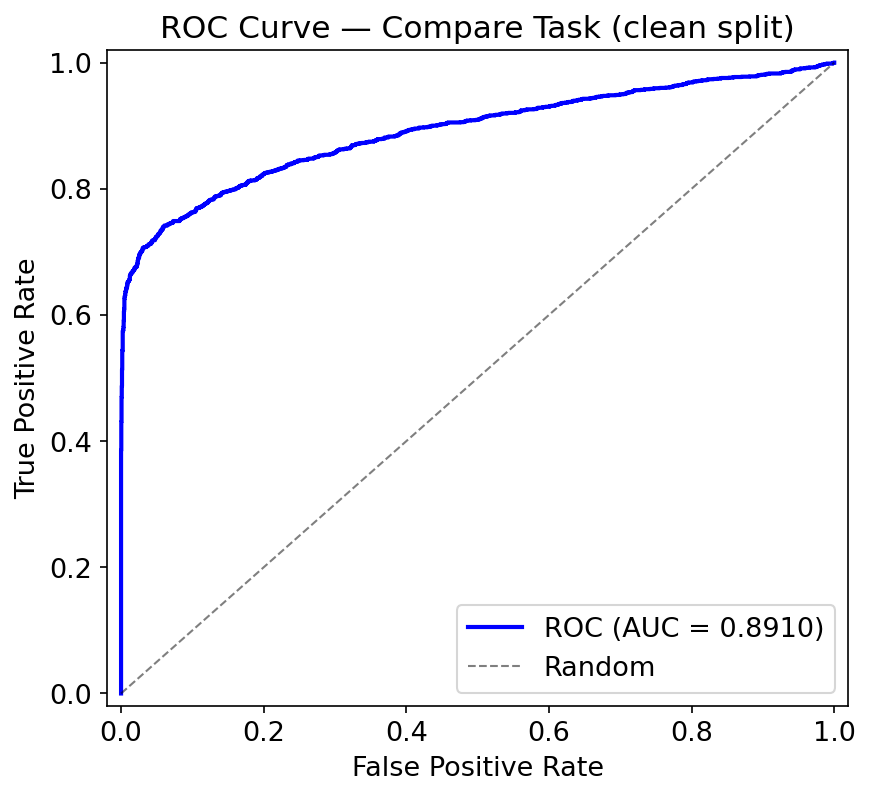
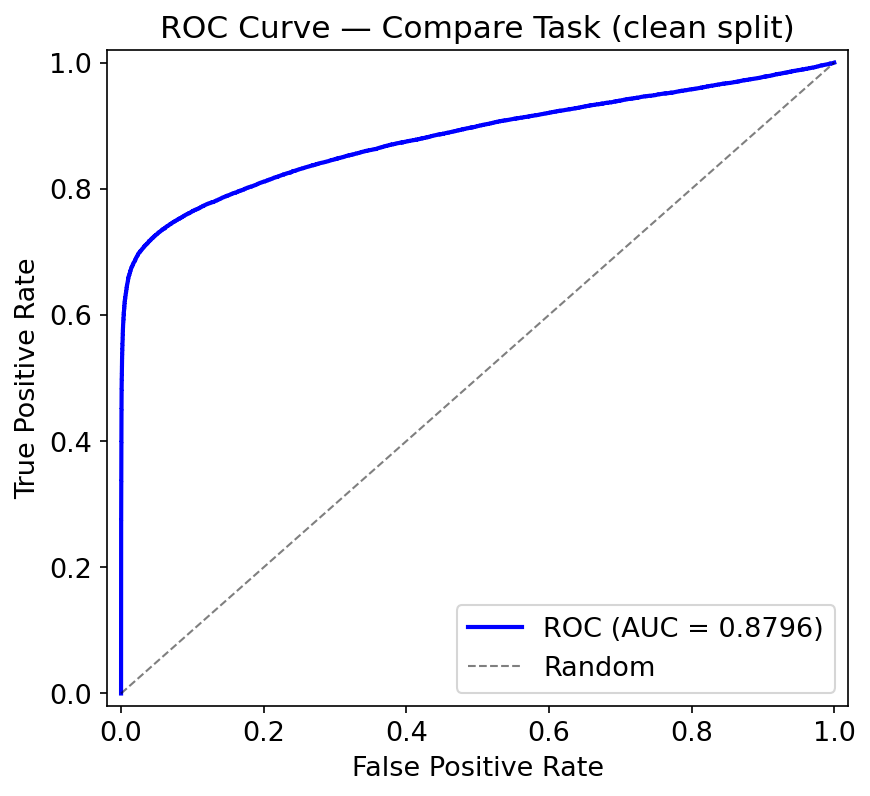
fix: 统一ROC曲线与文档的AUC为88.0%（split best.pt epoch 298）

diff --git a/src/stage4_siamese/train_relation_supcon.py b/src/stage4_siamese/train_relation_supcon.py
@@ -144,26 +144,31 @@ def main() -> int:
     train_transform = default_transform(input_shape=(64, 512), train=True)
     eval_transform = default_transform(input_shape=(64, 512), train=False)
 
-    # Full data: read ALL rows, ignore split column
     train_ds = RelationDataset(
         relation_meta,
         resolve_root_path(args.iris_dir),
-        split=None,
+        split="train",
         transform=train_transform,
         limit=int(args.limit_train) or None,
     )
-
-    # Internal stratified split for validation monitoring
-    all_rows = train_ds.rows
-    tr_rows, val_rows = split_meta_for_training(
-        all_rows, val_ratio=0.1, seed=int(args.seed), group_col="blood_name"
+    val_ds = RelationDataset(
+        relation_meta,
+        resolve_root_path(args.iris_dir),
+        split="val",
+        transform=eval_transform,
+        limit=int(args.limit_val) or None,
     )
-    train_indices = tr_rows.index.tolist()
-    val_indices = val_rows.index.tolist()
-    val_ds = Subset(train_ds, val_indices)
-    logger.info("full=%s train=%s val=%s", len(all_rows), len(train_indices), len(val_indices))
+    eval_gallery_ds = RelationDataset(
+        relation_meta,
+        resolve_root_path(args.iris_dir),
+        split="train",
+        transform=eval_transform,
+        limit=int(args.limit_train) or None,
+    )
 
-    blood_id_sets = blood_id_sets_from_rows(all_rows)
+    logger.info("train=%s val=%s", len(train_ds), len(val_ds))
+
+    blood_id_sets = blood_id_sets_from_rows(eval_gallery_ds.rows, val_ds.rows)
     idf = build_blood_id_idf(blood_id_sets)
 
     sampler = RelationBatchSampler(

diff --git a/docs/experiments.md b/docs/experiments.md
@@ -214,15 +214,15 @@
 | | Hit@5 | **75.5%** | 83.8% |
 | | Hit@10 | **78.1%** | 87.8% |
 | | mAP | **54.9%** | 60.7% |
-| **Compare** | AUC | **87.4%** | 99.5% |
-| | BalAcc | **84.0%** | 97.0% |
+| **Compare** | AUC | **88.0%** | 99.5% |
+| | BalAcc | **83.9%** | 97.0% |
 
 > 干净切分：训练 17,983 张 / 测试 2,526 张，严格排除泄漏，epoch 300。全量训练：25,690 张全部训练，epoch 60，当前生产部署方案。
 
 ### 6.2 用户视角解读
 
 - **检索**：上传一张鸽眼图，返回 10 个结果，干净切分下 **78.1% 的概率至少有一张血脉相关**；mAP 为 **54.9%**
-- **比对**：两张鸽眼图 → 判断是否同血脉，干净切分下 **AUC 87.4%**
+- **比对**：两张鸽眼图 → 判断是否同血脉，干净切分下 **AUC 88.0%**
 
 ### 6.3 模型配置
 

diff --git a/README.md b/README.md
@@ -79,8 +79,8 @@ App 支持两种任务：
 | | Hit@5 | **75.5%** | 83.8% |
 | | Hit@10 | **78.1%** | 87.8% |
 | | mAP | **54.9%** | 60.7% |
-| Compare | AUC | **87.4%** | 99.5% |
-| | BalAcc | **84.0%** | 97.0% |
+| Compare | AUC | **88.0%** | 99.5% |
+| | BalAcc | **83.9%** | 97.0% |
 
 > 干净切分：训练集 17,983 张 / 测试集 2,526 张，严格排除数据泄漏。全量训练：25,690 张全部用于训练，生产部署方案。当前生产模型采用全量训练 Relation-SupCon 256d，生产检索库 `outputs/features/relation_supcon_256d/`。详细实验记录见 [docs/experiments.md](docs/experiments.md) 和 [docs/performance_improvement_journey.md](docs/performance_improvement_journey.md)。
 
